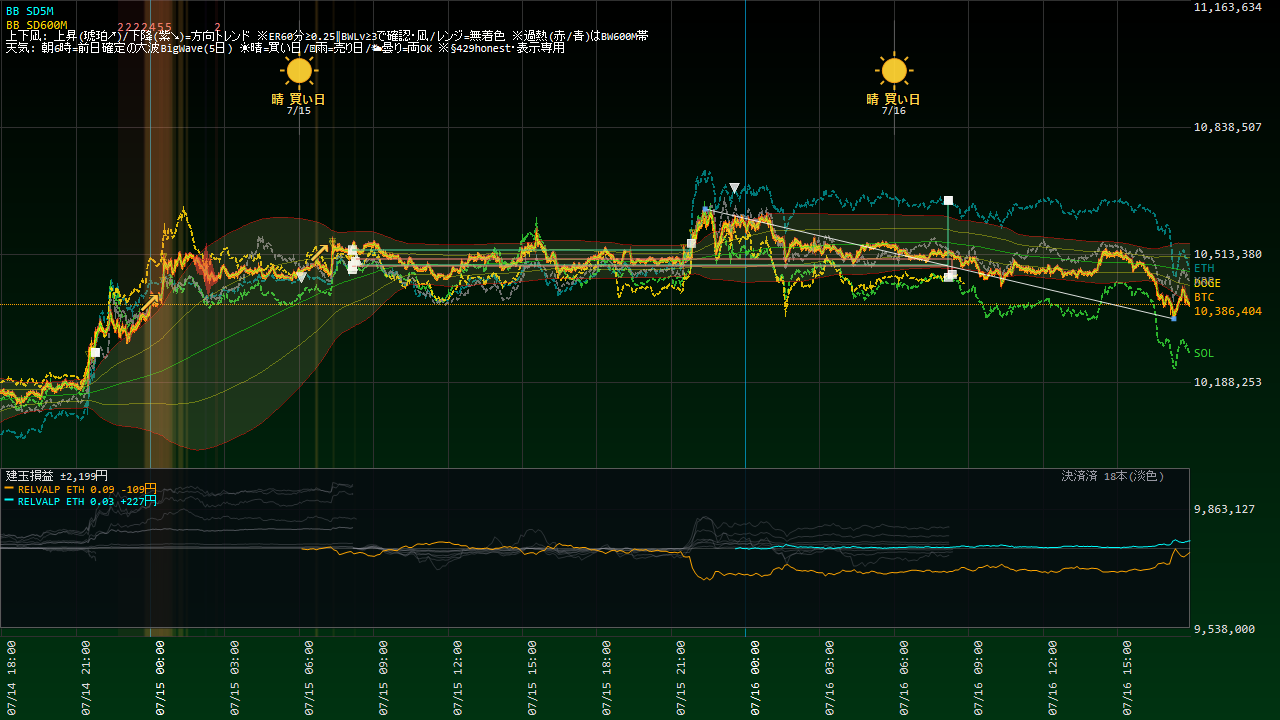
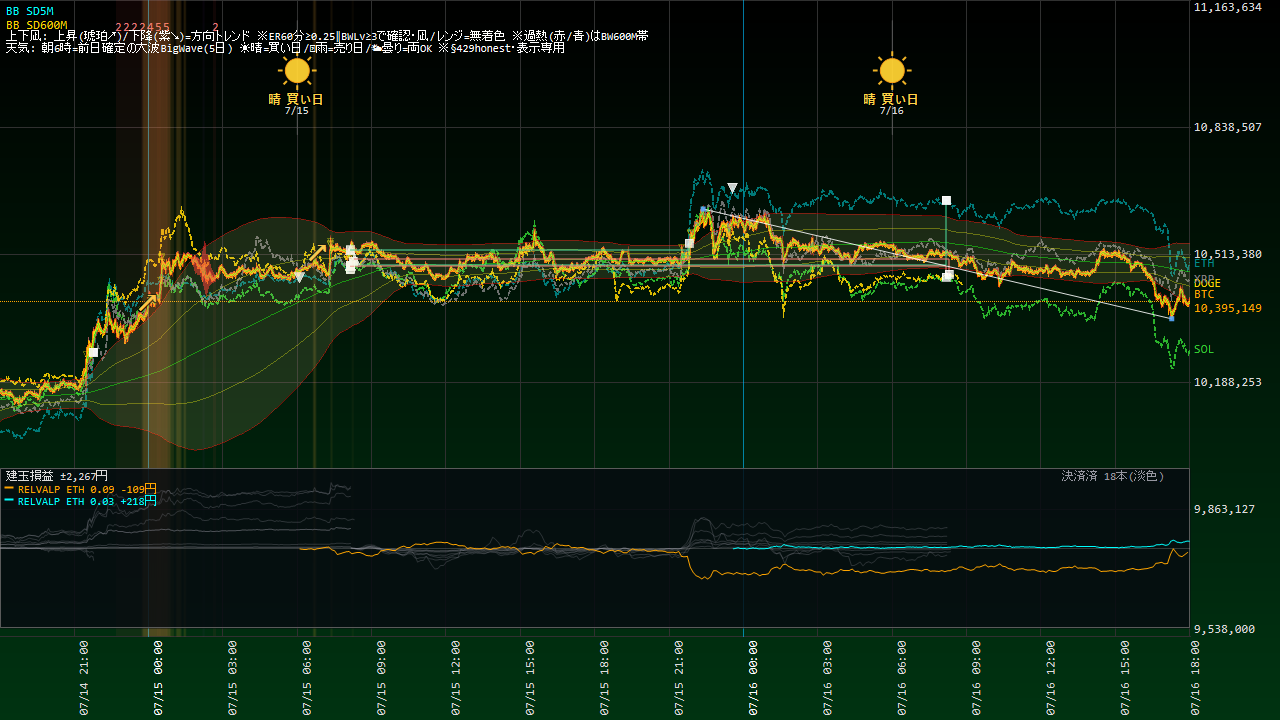
Coin100S 運用状況更新 07-16 18:05

diff --git a/coin100s-795hc4jfv8/index.html b/coin100s-795hc4jfv8/index.html
@@ -14,16 +14,16 @@ a{color:#60a5fa;text-decoration:none} a:hover{text-decoration:underline}
 .meta{color:#94a3b8;font-size:13px}</style>
 <script>setTimeout(function(){location.replace(location.pathname+"?t="+Date.now());},300000);</script></head><body>
 <h1>Coin100S ダッシュボード</h1>
-<p class="meta">スナップショット: 2026-07-16 17:58:57(自動リロード・最新化)</p>
+<p class="meta">スナップショット: 2026-07-16 18:04:57(自動リロード・最新化)</p>
 <div class="cards">
 <div class="card">建玉数<div class="v">2</div></div>
 <div class="card">本日損益<div class="v pos">+804円</div></div>
-<div class="card">評価損益<div class="v pos">+104円</div></div>
+<div class="card">評価損益<div class="v pos">+52円</div></div>
 </div>
 <h2>現在の建玉</h2>
-<table><tr><th>銘柄</th><th>側</th><th>数量</th><th>建値</th><th>含損益</th><th>レッグ</th></tr><tr><td>ETH_JPY</td><td>SELL</td><td>0.03</td><td>@313,051</td><td>+219円</td><td>RELVALP_SL700</td></tr><tr><td>ETH_JPY</td><td>SELL</td><td>0.09</td><td>@304,456</td><td>-115円</td><td>RELVALP_SELL</td></tr></table>
+<table><tr><th>銘柄</th><th>側</th><th>数量</th><th>建値</th><th>含損益</th><th>レッグ</th></tr><tr><td>ETH_JPY</td><td>SELL</td><td>0.03</td><td>@313,051</td><td>+206円</td><td>RELVALP_SL700</td></tr><tr><td>ETH_JPY</td><td>SELL</td><td>0.09</td><td>@304,456</td><td>-154円</td><td>RELVALP_SELL</td></tr></table>
 <p><a href="status.html"><b>▶ 運用状況の詳細(チャート・本日の取引・レジーム)</b></a></p>
 <h2>日報一覧</h2>
 <table><tr><th>取引日</th><th>実現損益</th><th>総括</th></tr><tr><td><a href='reports/20260715_Coin100S日報.html'>2026-07-15</a></td><td class="pos">+0円</td><td class='meta'>実取引: 新規6件/決済5件、実現損益 +0円。シグナル却下6件（最多: BW10M3_5M／トレンド方向ゲート(N分傾き上と不一致=逆張り方向のfade禁止)）。⚠警告/エラー 7件（要確認）。</td></tr><tr><td><a href='reports/20260714_Coin100S日報.html'>2026-07-14</a></td><td class="pos">+0円</td><td class='meta'>実取引: 新規6件/決済18件、実現損益 +0円。シグナル却下5件（最多: BW10M3_5M／トレンド方向ゲート(N分傾き上と不一致=逆張り方向のfade禁止)）。⚠警告/エラー 9件（要確認）。</td></tr><tr><td><a href='reports/20260713_Coin100S日報.html'>2026-07-13</a></td><td class="pos">+0円</td><td class='meta'>実取引: 新規5件/決済8件、実現損益 +0円。シグナル却下1件（最多: BW10M3_5M／トレンド方向ゲート(N分傾き上と不一致=逆張り方向のfade禁止)）。警告/孤児/エラーなし＝健全。</td></tr><tr><td><a href='reports/20260712_Coin100S日報.html'>2026-07-12</a></td><td class="pos">+0円</td><td class='meta'>実取引: 新規14件/決済6件、実現損益 +0円。シグナル却下5件（最多: BW10M3_5M／トレンド方向ゲート(N分傾き下と不一致=逆張り方向のfade禁止)）。⚠警告/エラー 2件（要確認）。</td></tr><tr><td><a href='reports/20260711_Coin100S日報.html'>2026-07-11</a></td><td class="pos">+0円</td><td class='meta'>実取引: 新規7件/決済6件、実現損益 +0円。⚠警告/エラー 52件（要確認）。</td></tr><tr><td><a href='reports/20260710_Coin100S日報.html'>2026-07-10</a></td><td class="pos">+0円</td><td class='meta'>実取引: 新規7件/決済6件、実現損益 +0円。シグナル却下6件（最多: BW10M3_5M／トレンド方向ゲート(N分傾き上と不一致=逆張り方向のfade禁止)）。警告/孤児/エラーなし＝健全。</td></tr><tr><td><a href='reports/20260709_Coin100S日報.html'>2026-07-09</a></td><td class="pos">+0円</td><td class='meta'>実取引: 新規8件/決済3件、実現損益 +0円。シグナル却下5件（最多: SD120M_5M／トレンド方向ゲート(N分傾き上と不一致=逆張り方向のfade禁止)）。警告/孤児/エラーなし＝健全。</td></tr><tr><td><a href='reports/20260708_Coin100S日報.html'>2026-07-08</a></td><td class="pos">+0円</td><td class='meta'>実取引: 新規2件/決済4件、実現損益 +0円。シグナル却下4件（最多: SD120M_5M／トレンド方向ゲート(N分傾き下と不一致=逆張り方向のfade禁止)）。警告/孤児/エラーなし＝健全。</td></tr><tr><td><a href='reports/20260707_Coin100S日報.html'>2026-07-07</a></td><td class="pos">+0円</td><td class='meta'>実取引: 新規8件/決済6件、実現損益 +0円。シグナル却下4件（最多: SD120M_5M／トレンド方向ゲート(N分傾き上と不一致=逆張り方向のfade禁止)）。⚠警告/エラー 258件（要確認）。</td></tr><tr><td><a href='reports/20260706_Coin100S日報.html'>2026-07-06</a></td><td class="pos">+0円</td><td class='meta'>実取引: 新規9件/決済6件、実現損益 +0円。シグナル却下9件（最多: SD120M_5M／トレンド方向ゲート(N分傾き上と不一致=逆張り方向のfade禁止)）。⚠警告/エラー 150件（要確認）。</td></tr><tr><td><a href='reports/20260705_Coin100S日報.html'>2026-07-05</a></td><td class="pos">+0円</td><td class='meta'>実取引: 新規8件/決済3件、実現損益 +0円。⚠警告/エラー 2件（要確認）。</td></tr><tr><td><a href='reports/20260704_Coin100S日報.html'>2026-07-04</a></td><td class="pos">+0円</td><td class='meta'>実取引: 新規1件/決済2件、実現損益 +0円。⚠警告/エラー 2件（要確認）。</td></tr><tr><td><a href='reports/20260703_Coin100S日報.html'>2026-07-03</a></td><td class="pos">+0円</td><td class='meta'>実取引: 新規5件/決済4件、実現損益 +0円。⚠警告/エラー 15件（要確認）。</td></tr><tr><td><a href='reports/20260702_Coin100S日報.html'>2026-07-02</a></td><td class="pos">+0円</td><td class='meta'>実取引: 新規7件/決済5件、実現損益 +0円。シグナル却下17件（最多: SD120M_5M／トレンド方向ゲート(N分傾き上と不一致=逆張り方向のfade禁止)）。⚠警告/エラー 26件（要確認）。</td></tr><tr><td><a href='reports/20260701_Coin100S日報.html'>2026-07-01</a></td><td class="pos">+0円</td><td class='meta'>実取引: 新規14件/決済8件、実現損益 +0円。シグナル却下14件（最多: SD120M_5M／ボラ軸ゲート(SDN%&amp;gt;N%=高ボラ/荒れレンジ)）。⚠警告/エラー 2件（要確認）。</td></tr><tr><td><a href='reports/20260630_Coin100S日報.html'>2026-06-30</a></td><td class="pos">+0円</td><td class='meta'>実取引: 新規0件/決済1件、実現損益 +0円。シグナル却下29件（最多: 微5M／当日枠N）。警告/孤児/エラーなし＝健全。</td></tr></table>
-<hr><p class="meta">更新: 2026-07-16 17:59:06 / 自動生成: tools/web_publish.py(§580)</p>
+<hr><p class="meta">更新: 2026-07-16 18:05:07 / 自動生成: tools/web_publish.py(§580)</p>
 </body></html>

diff --git a/coin100s-795hc4jfv8/status.html b/coin100s-795hc4jfv8/status.html
@@ -14,22 +14,22 @@ a{color:#60a5fa;text-decoration:none} a:hover{text-decoration:underline}
 .meta{color:#94a3b8;font-size:13px}</style>
 <script>setTimeout(function(){location.replace(location.pathname+"?t="+Date.now());},300000);</script></head><body>
 <h1>Coin100S 運用状況</h1>
-<p class="meta">スナップショット: 2026-07-16 17:58:57 / ページ生成: 2026-07-16 17:59:06(自動リロード・最新化) / <a href="index.html">目次へ</a></p>
+<p class="meta">スナップショット: 2026-07-16 18:04:57 / ページ生成: 2026-07-16 18:05:07(自動リロード・最新化) / <a href="index.html">目次へ</a></p>
 <div class="cards">
 <div class="card">建玉数<div class="v">2</div></div>
 <div class="card">本日損益<div class="v pos">+804円</div></div>
-<div class="card">評価損益<div class="v pos">+104円</div></div>
+<div class="card">評価損益<div class="v pos">+52円</div></div>
 </div>
 <h2>資産推移(直近30日)</h2>
-<img src="status_equity.png?t=1759" alt="equity">
+<img src="status_equity.png?t=1805" alt="equity">
 <h2>取引チャート(直近24h)</h2>
-<img src="status_chart.png?t=1759" alt="chart">
+<img src="status_chart.png?t=1805" alt="chart">
 <h2>建玉一覧</h2>
-<table><tr><th>銘柄</th><th>側</th><th>数量</th><th>建値</th><th>含損益</th><th>レッグ</th></tr><tr><td>ETH_JPY</td><td>SELL</td><td>0.03</td><td>@313,051</td><td>+219円</td><td>RELVALP_SL700</td></tr><tr><td>ETH_JPY</td><td>SELL</td><td>0.09</td><td>@304,456</td><td>-115円</td><td>RELVALP_SELL</td></tr></table>
+<table><tr><th>銘柄</th><th>側</th><th>数量</th><th>建値</th><th>含損益</th><th>レッグ</th></tr><tr><td>ETH_JPY</td><td>SELL</td><td>0.03</td><td>@313,051</td><td>+206円</td><td>RELVALP_SL700</td></tr><tr><td>ETH_JPY</td><td>SELL</td><td>0.09</td><td>@304,456</td><td>-154円</td><td>RELVALP_SELL</td></tr></table>
 <h2>実現決済履歴(直近15件・OrderId単位)</h2>
 <table><tr><th>決済時刻</th><th>レッグ</th><th>銘柄</th><th>実現損益</th></tr><tr><td>07-16 08:21</td><td>TENKI5D_REV_DOGE</td><td>DOGE</td><td class="neg">-125円</td></tr><tr><td>07-16 08:12</td><td>TENKI5D_REV_ETH</td><td>ETH</td><td class="pos">+740円</td></tr><tr><td>07-16 08:12</td><td>TENKI5D_REV_ETH</td><td>ETH</td><td class="pos">+555円</td></tr><tr><td>07-16 08:12</td><td>TENKI5D_REV_SOL</td><td>SOL</td><td class="neg">-193円</td></tr><tr><td>07-15 21:51</td><td>TENKI5D_REV_BTC</td><td>BTC</td><td class="pos">+94円</td></tr><tr><td>07-15 08:18</td><td>TENKI5D_REV_DOGE</td><td>DOGE</td><td class="pos">+858円</td></tr><tr><td>07-15 08:09</td><td>TENKI5D_REV_ETH</td><td>ETH</td><td class="pos">+601円</td></tr><tr><td>07-15 08:09</td><td>TENKI5D_REV_ETH</td><td>ETH</td><td class="pos">+2,402円</td></tr><tr><td>07-15 08:09</td><td>TENKI5D_REV_SOL</td><td>SOL</td><td class="pos">+1,812円</td></tr><tr><td>07-15 08:09</td><td>TENKI5D_REV_BTC</td><td>BTC</td><td class="pos">+1,850円</td></tr><tr><td>07-14 21:47</td><td>SIGFADE_ETH</td><td>ETH</td><td class="neg">-350円</td></tr><tr><td>07-14 21:47</td><td>SIGFADE_ETH</td><td>ETH</td><td class="neg">-141円</td></tr><tr><td>07-14 08:15</td><td>TENKI5D_REV_DOGE</td><td>DOGE</td><td class="pos">+267円</td></tr><tr><td>07-14 08:06</td><td>TENKI5D_REV_SOL</td><td>SOL</td><td class="pos">+1,011円</td></tr><tr><td>07-14 08:06</td><td>TENKI5D_REV_BTC</td><td>BTC</td><td class="pos">+819円</td></tr></table>
 <!-- §799c 「本取引日の実取引(6:00起点)」テーブルは公開ページから削除(ユーザー指示2026-07-15・数量/指値まで晒す情報漏れ)。建玉/実現損益は許可・実発注の生取引明細は非公開 -->
 <h2>現在レジーム(3軸・§570c)</h2>
-<ul><li>アルト対BTC 5日: <b>+5bps</b>(アルト優越=RELVAL逆風)</li><li>BTC ER240m: <b>0.097</b>(閾値0.25→レンジ(fade順風/BWTRD逆風))</li><li>BTC実現ボラ240m: <b>4.27</b> bps/分</li></ul>
+<ul><li>アルト対BTC 5日: <b>+5bps</b>(アルト優越=RELVAL逆風)</li><li>BTC ER240m: <b>0.087</b>(閾値0.25→レンジ(fade順風/BWTRD逆風))</li><li>BTC実現ボラ240m: <b>4.32</b> bps/分</li></ul>
 <hr><p class="meta">自動生成: tools/web_publish.py(§580・読み取り専用)。売買判断はアプリ本体。</p>
 </body></html>
